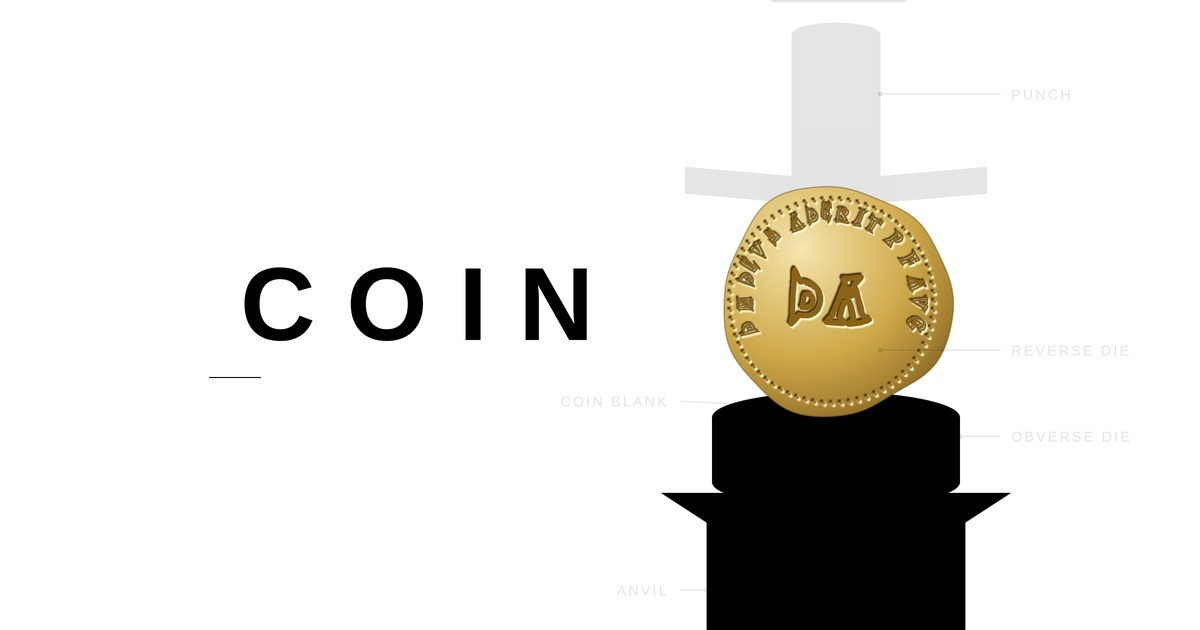
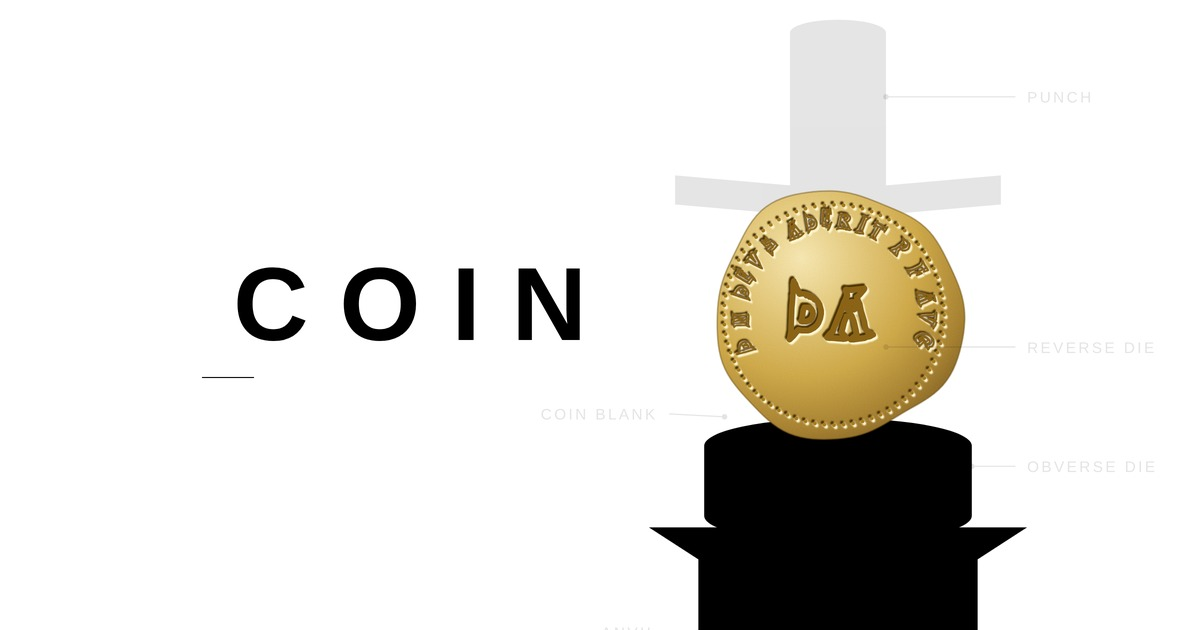
coin: blank drawn as a flat disc with thickness, laid on the die

diff --git a/YELLOW BOX/coin/index.html b/YELLOW BOX/coin/index.html
@@ -137,10 +137,10 @@ input[type=text]::placeholder{color:#000;opacity:.35}
   </g>
 
   <g id="punch">
-    <path class="solid" d="M267 102 A33 9 0 0 1 333 102 L333 356 A33 9 0 0 1 267 356 Z"/>
+    <path class="solid" d="M267 102 A33 9 0 0 1 333 102 L333 338 A33 9 0 0 1 267 338 Z"/>
     <path class="solid" d="M188 200 L268 207 L268 227 L188 220 Z"/>
     <path class="solid" d="M332 207 L412 200 L412 220 L332 227 Z"/>
-    <path class="seam" d="M268 324 L332 324"/>
+    <path class="seam" d="M268 306 L332 306"/>
   </g>
 
   <!-- obverse die, seated in the anvil -->
@@ -148,7 +148,7 @@ input[type=text]::placeholder{color:#000;opacity:.35}
   <path class="solid" d="M170 442 L430 442 L396 464 L396 560 L412 576 L188 576 L204 560 L204 464 Z"/>
 
   <!-- the blank: lying flat on the die until it has been struck -->
-  <g id="coinG" transform="translate(300,378) scale(0.86,0.15)"></g>
+  <g id="coinG" transform="translate(300,368) scale(0.86)"></g>
 
   <g id="labels">
     <g id="mlabels">
@@ -156,11 +156,11 @@ input[type=text]::placeholder{color:#000;opacity:.35}
       <path class="lead" d="M184 48 L252 48"/><circle class="tick" cx="252" cy="48" r="1.9"/>
       <text class="lab" x="430" y="150" text-anchor="start">Punch</text>
       <path class="lead" d="M422 146 L333 146"/><circle class="tick" cx="333" cy="146" r="1.9"/>
-      <text class="lab" x="430" y="340" text-anchor="start">Reverse die</text>
-      <path class="lead" d="M422 336 L333 336"/><circle class="tick" cx="333" cy="336" r="1.9"/>
+      <text class="lab" x="430" y="322" text-anchor="start">Reverse die</text>
+      <path class="lead" d="M422 318 L333 318"/><circle class="tick" cx="333" cy="318" r="1.9"/>
     </g>
-    <text class="lab" x="176" y="378" text-anchor="end">Coin blank</text>
-    <path class="lead" d="M184 374 L226 376"/><circle class="tick" cx="226" cy="376" r="1.9"/>
+    <text class="lab" x="176" y="368" text-anchor="end">Coin blank</text>
+    <path class="lead" d="M184 364 L222 366"/><circle class="tick" cx="222" cy="366" r="1.9"/>
     <text class="lab" x="430" y="404" text-anchor="start">Obverse die</text>
     <path class="lead" d="M422 400 L392 400"/><circle class="tick" cx="392" cy="400" r="1.9"/>
     <text class="lab" x="176" y="518" text-anchor="end">Anvil</text>
@@ -212,9 +212,9 @@ function initials(n){const w=(n||"").trim().split(/\s+/).filter(Boolean);
  return (w[0][0]+w[w.length-1][0]).toUpperCase()}
 
 let relief=0,charge=0,charging=false,raf=0,t0=0,busy=false,face="o",shown=false;
-const LAID="translate(300px,378px) scale(0.86,0.15)",
-      HIT ="translate(300px,378px) scale(0.86,0.09)",
-      UP  ="translate(300px,300px) scale(0.86,0.86)";
+const LAID="translate(300px,368px) scale(0.86)",
+      HIT ="translate(300px,373px) scale(0.86,0.66)",
+      UP  ="translate(300px,296px) scale(0.86)";
 let portrait=null,pzoom=128,pox=0,poy=0;
 const COINF="GOTHICC,Helvetica Neue,Helvetica,Arial,sans-serif";
 
@@ -280,6 +280,33 @@ function wreath(col,R,cy){
   g.appendChild(el("path",{d:"M -7 "+(R-2)+" Q 0 "+(R+6)+" 7 "+(R-2),
     fill:"none",stroke:col,"stroke-width":2.2}));
   return g;
+}
+
+/* the blank as it actually sits: a flat top face with real thickness under it,
+   not the struck face squashed — a squashed face reads as a dome */
+function buildBlank(root,h,uid){
+  while(root.firstChild)root.removeChild(root.firstChild);
+  const u=(uid||"b")+"L", SQ=.20, TH=11;
+  const flat=flan(h,99).replace(/(-?[\d.]+),(-?[\d.]+)/g,
+    (m,x,y)=>x+","+(parseFloat(y)*SQ).toFixed(2));
+
+  const defs=el("defs",{});
+  /* top face: lit from above and behind, so it reads as horizontal */
+  const tf=el("linearGradient",{id:"tf"+u,x1:"20%",y1:"0%",x2:"80%",y2:"100%"});
+  [["0%","#f2dc9d"],["45%","#dcbb6a"],["100%","#b98f34"]]
+    .forEach(([o,c])=>tf.appendChild(el("stop",{offset:o,"stop-color":c})));
+  defs.appendChild(tf);
+  /* the edge, turned away from the light */
+  const ef=el("linearGradient",{id:"ef"+u,x1:"0%",y1:"0%",x2:"0%",y2:"100%"});
+  [["0%","#a37a26"],["100%","#6d4f14"]]
+    .forEach(([o,c])=>ef.appendChild(el("stop",{offset:o,"stop-color":c})));
+  defs.appendChild(ef);
+  root.appendChild(defs);
+
+  /* thickness first, then the face over it — the crescent left below is the edge */
+  root.appendChild(el("path",{d:flat,fill:"url(#ef"+u+")",transform:"translate(0,"+TH+")"}));
+  root.appendChild(el("path",{d:flat,fill:"url(#tf"+u+")"}));
+  root.appendChild(el("path",{d:flat,fill:"none",stroke:"#6b4d14","stroke-opacity":".5","stroke-width":1.1}));
 }
 
 function buildCoin(root,name,S,uid){
@@ -449,7 +476,11 @@ function loadPic(f){
 const coinG=$("#coinG"),nameEl=$("#name"),btn=$("#strike"),diagram=$("#diagram"),
       forceBar=$("#force").firstElementChild,reliefBar=$("#relief").firstElementChild,
       ftxt=$("#ftxt"),rtxt=$("#rtxt"),hammer=$("#hammer"),punch=$("#punch"),sparks=$("#sparks");
-function render(){ buildCoin(coinG,nameEl.value,face,"m"); applyRelief(); }
+function render(){
+  if(shown) buildCoin(coinG,nameEl.value,face,"m");
+  else buildBlank(coinG,hash((nameEl.value||"blank").toUpperCase()+"o"),"m");
+  applyRelief();
+}
 function applyRelief(){
   const d=coinG.querySelector(".design");
   if(d){d.setAttribute("opacity",(.10+.90*relief).toFixed(3));
@@ -523,14 +554,14 @@ function impact(f){
 
 /* struck through — lift the coin off the die and turn it to the viewer */
 function reveal(){
-  shown=true;
+  shown=true; render();
   diagram.classList.add("revealed");
   coinG.classList.add("rise");
   coinG.style.transform=UP;
   setTimeout(()=>coinG.classList.remove("rise"),1000);
 }
 function layDown(){
-  shown=false;
+  shown=false; render();
   diagram.classList.remove("revealed");
   coinG.classList.add("rise");
   coinG.style.transform=LAID;
